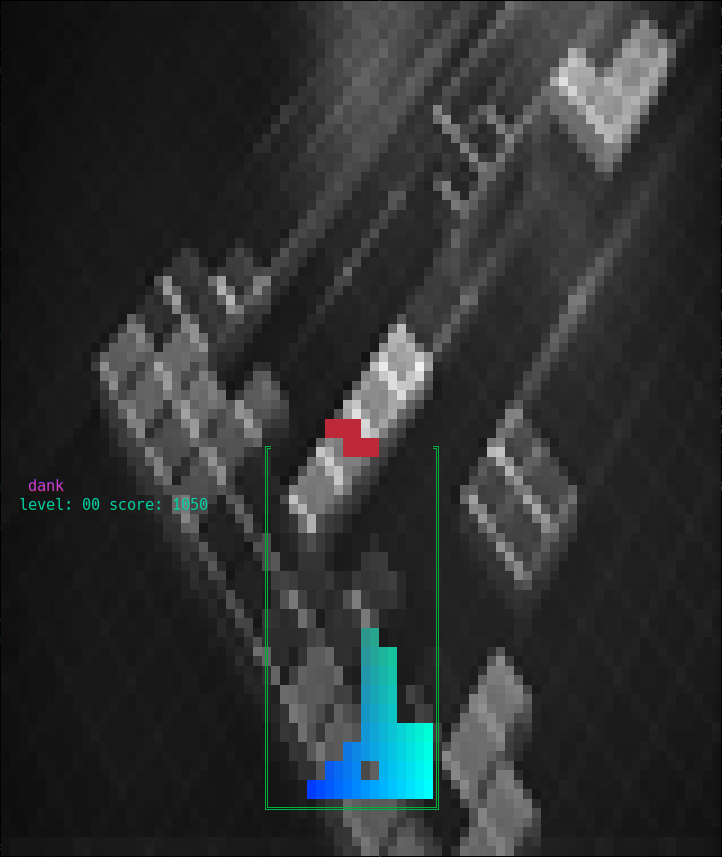
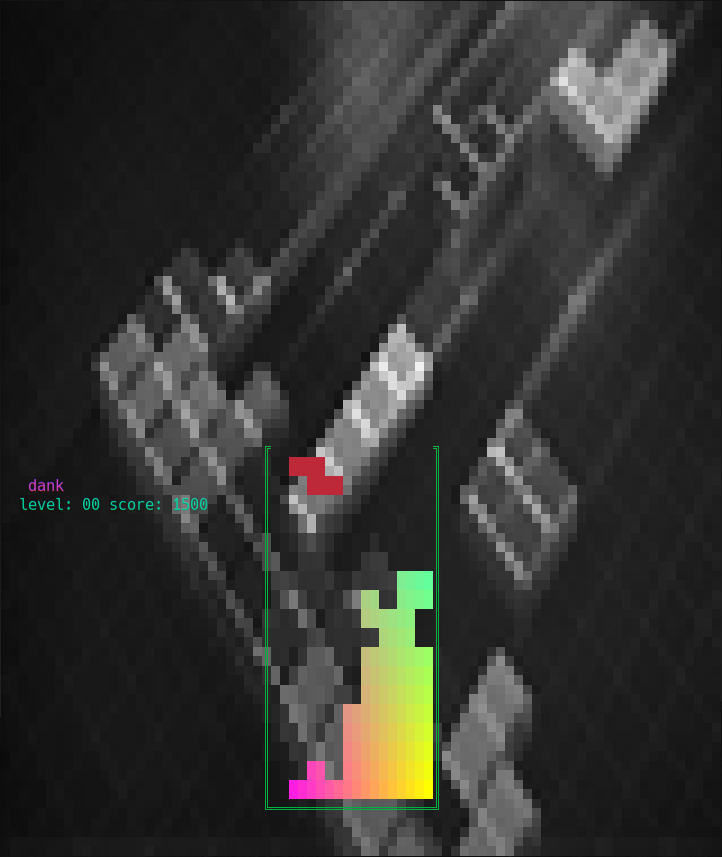
drag in tetris screenshots

Changed region(s): [[0.3961, 0.6674, 0.6094, 0.9405], [0.3961, 0.4854, 0.5485, 0.5764], [0.2438, 0.5764, 0.2742, 0.6068]]

diff --git a/004-notcurses/code-tetris/newpiece.h b/004-notcurses/code-tetris/newpiece.h
@@ -1,18 +1,15 @@
 // tidx is an index into tetriminos. yoff and xoff are relative to the
 // terminal's origin. returns colored north-facing tetrimino on a plane.
 std::unique_ptr<ncpp::Plane> NewPiece() {
-  // "North-facing" tetrimino forms (form in which they are released from the
-  // top) are expressed in terms of two rows having between 2 and 4 columns.
-  // We map each game column to four columns and each game row to two rows. Each
-  // byte of the texture maps to one 4x4 component block (and wastes 7 bits).
+  // "North-facing" tetrimino forms (form in which they are released from the top) are expressed in terms of
+  // two rows having between 2 and 4 columns. We map each game column to four columns and each game row to two
+  // rows. Each byte of the texture maps to one 4x4 component block (and wastes 7 bits).
   static const struct tetrimino {
     unsigned color;
     const char* texture;
   } tetriminos[] = { // OITLJSZ
-    { 0xcbc900, "****"}, { 0x009caa, "    ****"}, { 0x952d98, " * ***"},
-    { 0xcf7900, "  ****"}, { 0x0065bd, "*  ***"},   { 0x69be28, " **** "},
-    { 0xbd2939, "**  **"} };
-
+    { 0xcbc900, "****"}, { 0x009caa, "    ****"}, { 0x952d98, " * ***"}, { 0xcf7900, "  ****"},
+    { 0x0065bd, "*  ***"},   { 0x69be28, " **** "}, { 0xbd2939, "**  **"} };
   const int tidx = random() % 7;
   const struct tetrimino* t = &tetriminos[tidx];
   const size_t cols = strlen(t->texture);
@@ -27,8 +24,7 @@ std::unique_ptr<ncpp::Plane> NewPiece() {
     n->set_fg(t->color);
     n->set_bg_alpha(CELL_ALPHA_TRANSPARENT);
     n->set_base(channels, 0, "");
-    y = 0;
-    x = 0;
+    y = 0; x = 0;
     for(size_t i = 0 ; i < strlen(t->texture) ; ++i){
       if(t->texture[i] == '*'){
         if(n->putstr(y, x, "██") < 0){

diff --git a/004-notcurses/tetris.tex b/004-notcurses/tetris.tex
@@ -176,6 +176,18 @@ different levels---indeed, the gradient's computation limits us to 16 levels.
 The timer is managed in \texttt{Ticker()} (Listing~\ref{list:tetris-ticker}),
 which is run inside its own thread.
 
+\begin{figure}
+  \centering
+  \begin{minipage}{0.45\textwidth}
+    \includegraphics[width=1\linewidth]{media/tetris-prescore.png}
+    \caption{Tetris---primed to score.}
+  \end{minipage}\hfill
+  \begin{minipage}{0.45\textwidth}
+    \includegraphics[width=1\linewidth]{media/tetris-postscore.png}
+    \caption{Tetris---boom!}
+  \end{minipage}
+\end{figure}
+
 \begin{listing}[!htb]
 \inputminted[]{C}{code-tetris/moveleft.h}
 \caption{\texttt{Tetris::MoveLeft()}.}

diff --git a/004-notcurses/code-tetris/stain.h b/004-notcurses/code-tetris/stain.h
@@ -1,4 +1,3 @@
-
 void StainBoard(int dimy, int dimx){
   if(!board_->cursor_move(0, 1)){
     throw TetrisNotcursesErr("cursor_move()");
